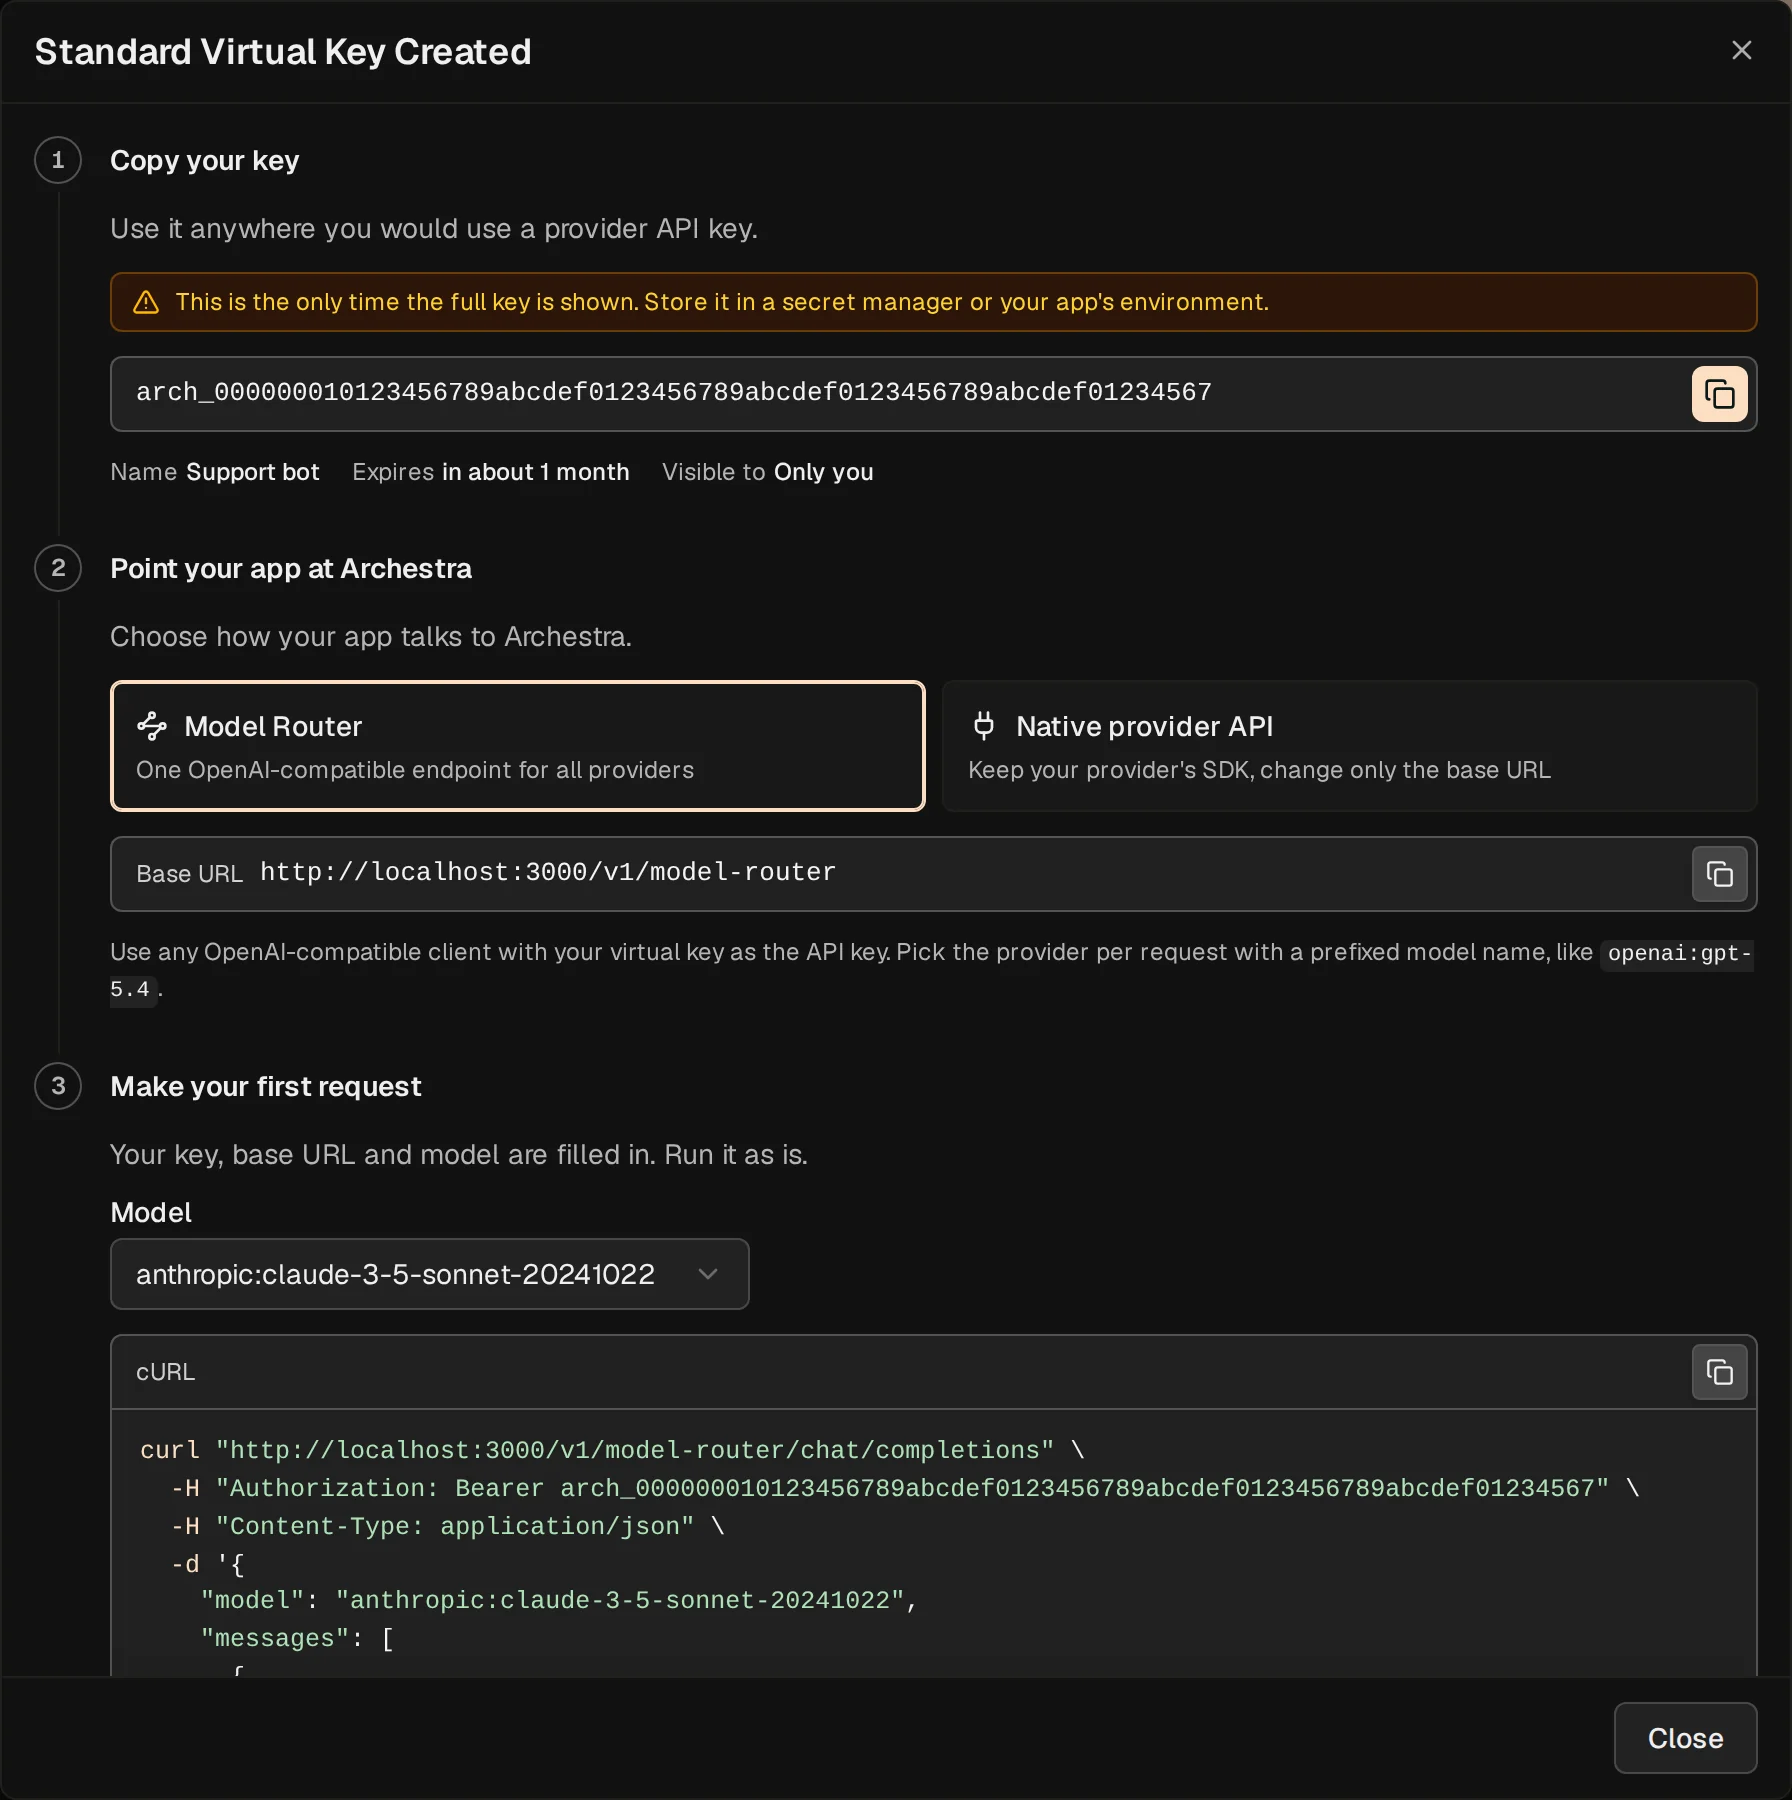
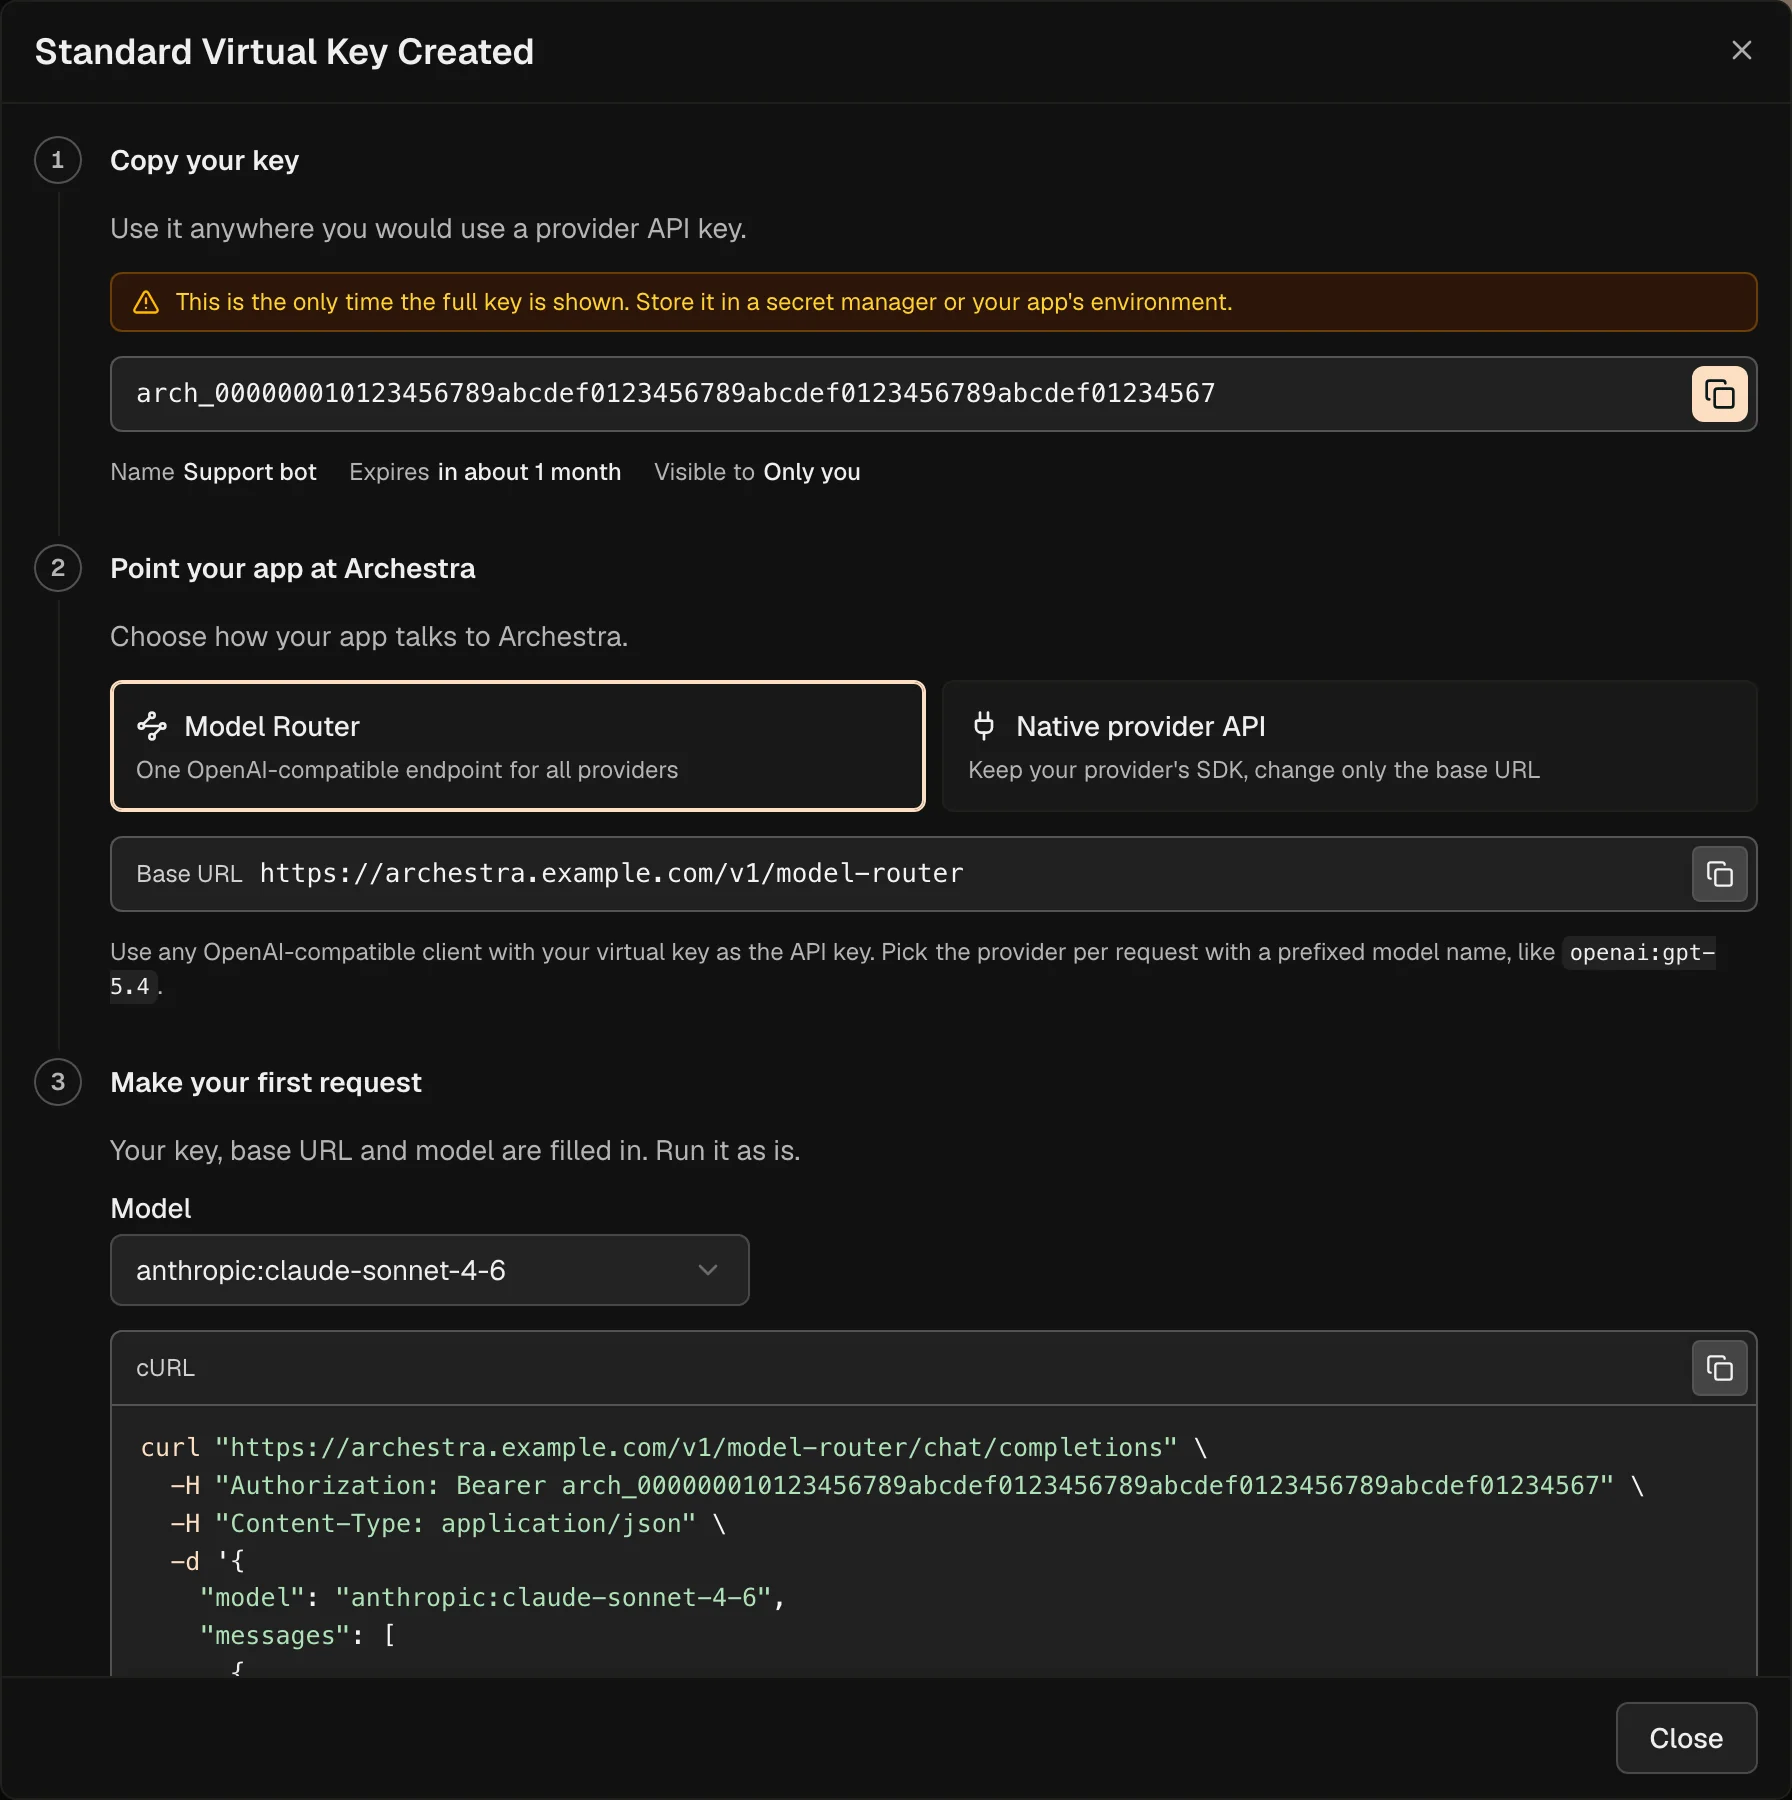
docs(proxy): refresh router screenshots with isolated repeatable capture

diff --git a/platform/tools/docs-screenshots/src/seed.ts b/platform/tools/docs-screenshots/src/seed.ts
@@ -33,7 +33,10 @@ export type SeedState = Record<string, Record<string, string>>;
  * Seeds the demo organization through the API as an admin. Additive and
  * idempotent: existing records (matched by name) are reused, nothing is deleted.
  */
-export async function seedDemoData(api: ArchestraApi): Promise<SeedState> {
+export async function seedDemoData(
+  api: ArchestraApi,
+  options: { onlyModelRouterKey?: boolean } = {},
+): Promise<SeedState> {
   await api.post("/api/organization/complete-onboarding", {
     onboardingComplete: true,
   });
@@ -54,6 +57,14 @@ export async function seedDemoData(api: ArchestraApi): Promise<SeedState> {
   record("users", "persona", ownerId);
   const own = (path: string) =>
     api.tryPost(`${path}/transfer-ownership`, { ownerId });
+
+  // This dialog needs real provider mappings, but no Kubernetes environments,
+  // knowledge indexing, or unrelated demo records.
+  if (options.onlyModelRouterKey) {
+    await seedProviderKeys(api, record);
+    writeSeedState(state);
+    return state;
+  }
 
   for (const team of TEAMS) {
     const created = await api.ensureNamed({
@@ -144,17 +155,7 @@ export async function seedDemoData(api: ArchestraApi): Promise<SeedState> {
   await addGuardrailsRules(api);
   await saveValidations(api);
 
-  const existingProviderKeys = items(await api.get<Listed>("/api/llm-provider-api-keys"));
-  for (const providerKey of PROVIDER_KEYS) {
-    const created =
-      existingProviderKeys.find((key) => key.name === providerKey.name) ??
-      (await api.tryPost<Named>("/api/llm-provider-api-keys", providerKey));
-    if (created) {
-      record("providerKeys", providerKey.name, created.id);
-    } else {
-      console.warn(`Skipped provider key "${providerKey.name}": the provider rejected the fake key.`);
-    }
-  }
+  await seedProviderKeys(api, record);
 
   for (const knowledgeBase of KNOWLEDGE_BASES) {
     const created = await api.ensureNamed({
@@ -228,9 +229,31 @@ export async function seedDemoData(api: ArchestraApi): Promise<SeedState> {
     });
   }
 
+  writeSeedState(state);
+  return state;
+}
+
+function writeSeedState(state: SeedState): void {
   fs.mkdirSync(STATE_DIR, { recursive: true });
   fs.writeFileSync(SEED_STATE_FILE, `${JSON.stringify(state, null, 2)}\n`);
-  return state;
+}
+
+async function seedProviderKeys(
+  api: ArchestraApi,
+  record: (kind: string, name: string, id: string) => void,
+): Promise<void> {
+  const existingProviderKeys = items(await api.get<Listed>("/api/llm-provider-api-keys"));
+  for (const providerKey of PROVIDER_KEYS) {
+    const created =
+      existingProviderKeys.find((key) => key.name === providerKey.name) ??
+      (await api.tryPost<Named>("/api/llm-provider-api-keys", providerKey));
+    if (created) {
+      record("providerKeys", providerKey.name, created.id);
+    } else {
+      console.warn(`Skipped provider key "${providerKey.name}": the provider rejected the fake key.`);
+    }
+  }
+
 }
 
 /**
@@ -280,7 +303,8 @@ export async function seedKnowledgeFiles(api: ArchestraApi, state: SeedState): P
       const row = byName.get(file.filename);
       const baseId = file.knowledgeBase && state.knowledgeBases[file.knowledgeBase];
       if (!row || !baseId || row.knowledgeBases?.some((base) => base.id === baseId)) continue;
-      (toIndex[baseId] ??= []).push(row.id);
+      toIndex[baseId] ??= [];
+      toIndex[baseId].push(row.id);
     }
     if (Object.keys(toIndex).length === 0) return;
     for (const [knowledgeBaseId, fileIds] of Object.entries(toIndex)) {

diff --git a/platform/tools/docs-screenshots/tests/seed.setup.ts b/platform/tools/docs-screenshots/tests/seed.setup.ts
@@ -1,13 +1,14 @@
 import { request, test as setup } from "@playwright/test";
 import { ArchestraApi } from "../src/api";
+import { backdateKnowledgeFiles, seedDatabaseRows } from "../src/db-seed";
 import {
   ADMIN_EMAIL,
   ADMIN_PASSWORD,
   ARCHESTRA_URL,
+  ONLY,
   PERSONA_AUTH_FILE,
 } from "../src/env";
 import { ensurePersona, PERSONA } from "../src/persona";
-import { backdateKnowledgeFiles, seedDatabaseRows } from "../src/db-seed";
 import { seedDemoData, seedKnowledgeFiles } from "../src/seed";
 
 setup("seed the demo organization", async () => {
@@ -29,10 +30,15 @@ setup("seed the demo organization", async () => {
   if (!(await persona.signIn(PERSONA.email, PERSONA.password))) {
     throw new Error(`Could not sign in as the persona ${PERSONA.email}.`);
   }
-  const state = await seedDemoData(persona);
-  await seedDatabaseRows(state);
-  await seedKnowledgeFiles(persona, state);
-  backdateKnowledgeFiles(state);
+  const onlyModelRouterKey =
+    ONLY.length === 1 &&
+    ONLY[0] === "automated_screenshots/llm-proxy_model-router-key";
+  const state = await seedDemoData(persona, { onlyModelRouterKey });
+  if (!onlyModelRouterKey) {
+    await seedDatabaseRows(state);
+    await seedKnowledgeFiles(persona, state);
+    backdateKnowledgeFiles(state);
+  }
   await personaContext.storageState({ path: PERSONA_AUTH_FILE });
   await personaContext.dispose();
   await anonymous.dispose();

diff --git a/platform/tools/docs-screenshots/README.md b/platform/tools/docs-screenshots/README.md
@@ -2,6 +2,8 @@
 
 Run `pnpm docs:screenshots` from `platform/` against a seeded local stack. See [the screenshot workflow](../../.agents/skills/archestra-docs-writer/references/site-mechanics.md#screenshots) for setup and adding scenes.
 
+The exact `DOCS_SCREENSHOTS_ONLY=automated_screenshots/llm-proxy_model-router-key` selection seeds only the persona and real provider mappings needed by that dialog. Full captures retain the complete demo seed, including Kubernetes environments and knowledge data.
+
 Use an isolated fixture instance: the guardrails overview enables real enforcement through the API and verifies that it is active before capturing. It does not simulate deployment status in the browser.
 
 Keep scene choices explicit: pick a named agent, sort tied lists by name, and wait for the final UI state. The harness waits for the app's accessible loading status to clear; the approval scene also waits for setup-command generation. Usage scenes use `FIXTURE_TIME` with the usage SQL dataset and an exact statistics range, so request buckets and labels do not move with the calendar. Browser timers still run normally. Locale, timezone, fonts, reduced motion, and disabled screenshot animations are handled by the capture harness.
